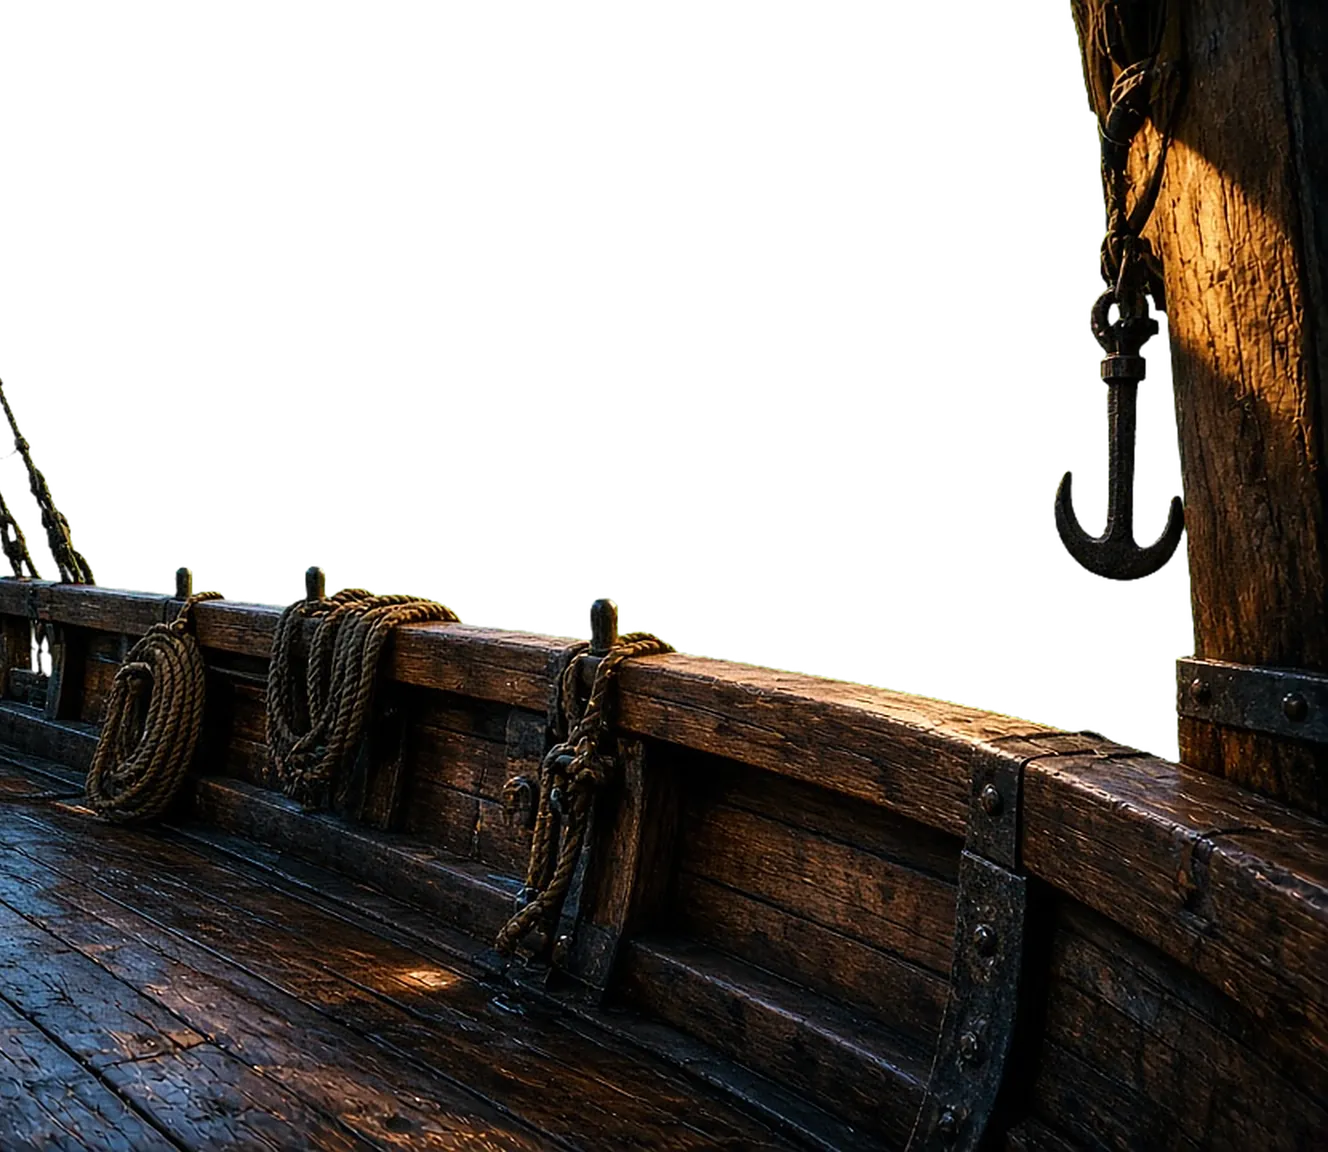
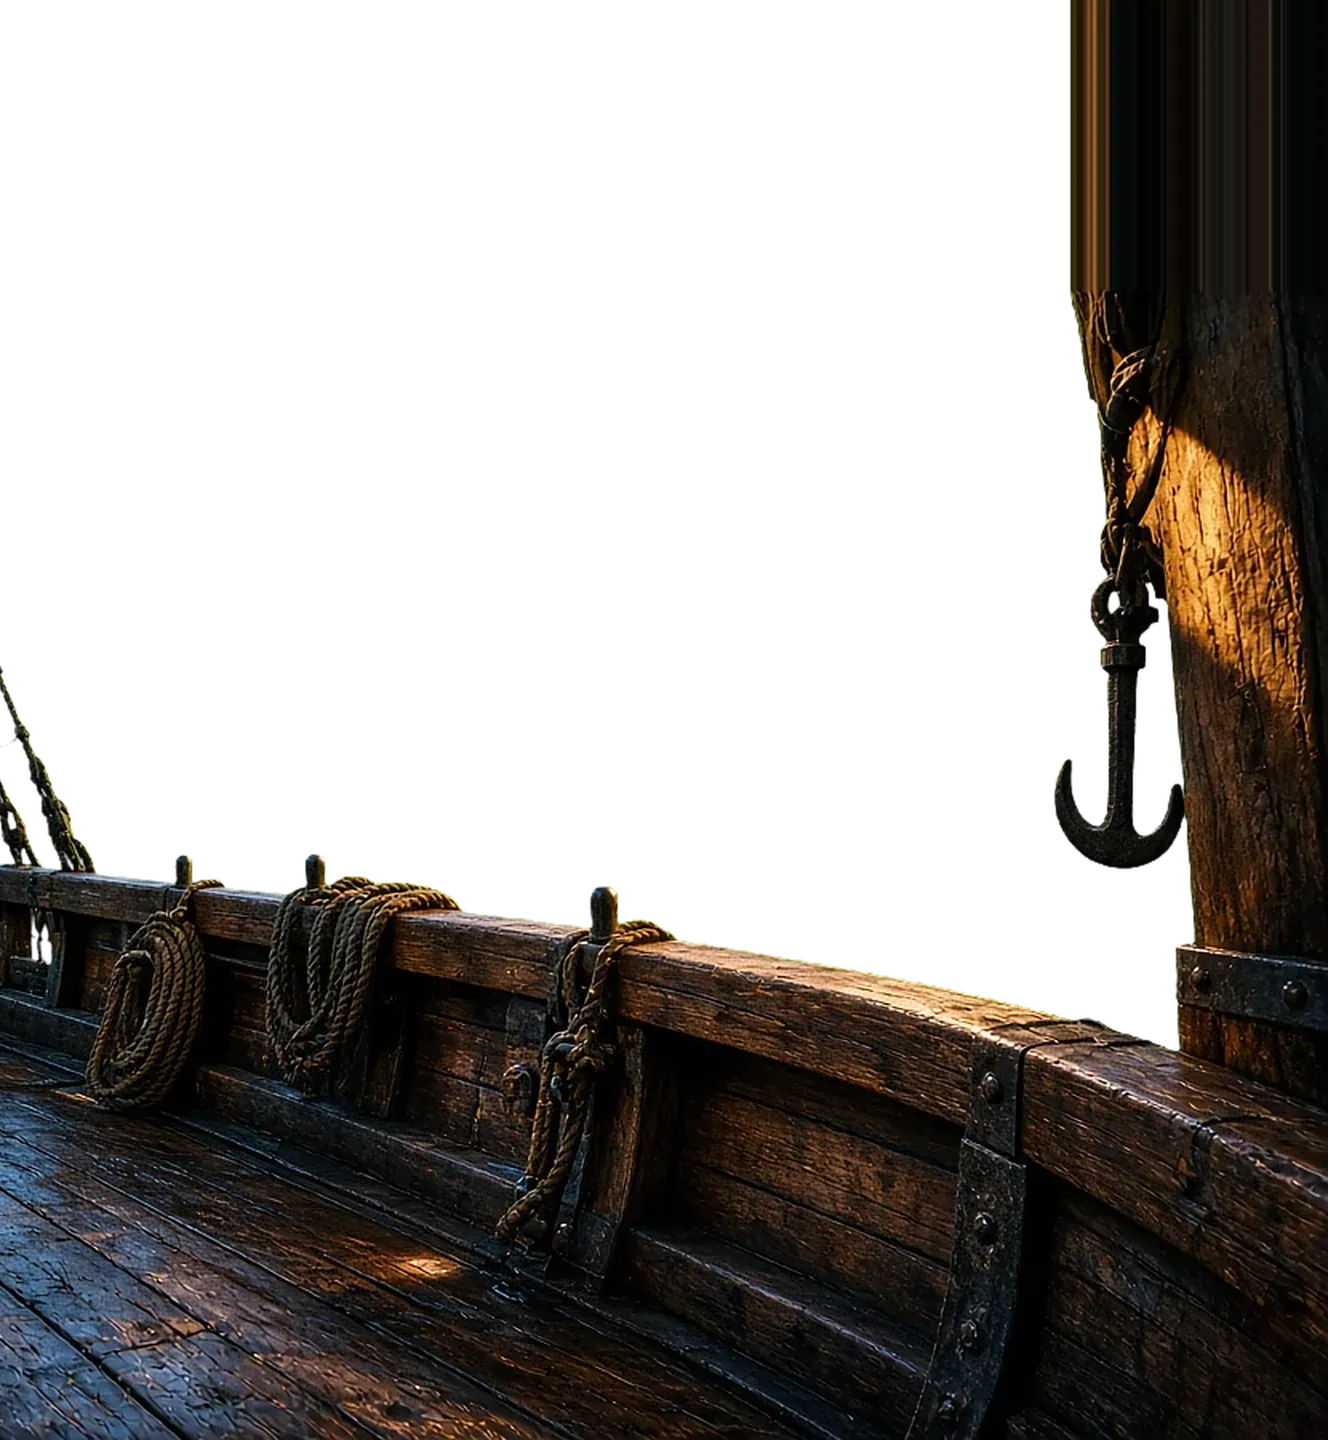
Extend deck masts upward; no top seam

diff --git a/assets/ship.js b/assets/ship.js
@@ -5,10 +5,10 @@ window.pfMotion=()=>on;document.documentElement.classList.toggle('calm',!on);
 const $=id=>document.getElementById(id),sc=document.querySelector('.scene'),top=$('scene-top'),ship=$('ship'),deck=$('deck'),lan=$('lantern'),fc=$('flame'),glow=$('lglow'),pool=$('lpool'),dawn=$('dawn'),cb=$('set-rock');
 const fx=fc.getContext('2d');
 cb.checked=on;cb.onchange=()=>{on=cb.checked;try{localStorage.setItem(K,on?'1':'0')}catch{};document.documentElement.classList.toggle('calm',!on);dispatchEvent(new Event('pfmotion'));on?loop():still()};
-const CFG={d:{src:'assets/sky/deck.webp',W:2560,H:1440,hx:.898,hy:.475,lh:.40,px:.80,py:.86,ax:.5,dy:.16},m:{src:'assets/sky/deck-m.webp',W:1328,H:1152,hx:.843,hy:.475,lh:.30,px:.72,py:.86,ax:.82,dy:.12}};
+const CFG={d:{src:'assets/sky/deck.webp',W:2560,H:1800,hx:.898,hy:.58,lh:.32,px:.80,py:.888,ax:.5,dy:.128},m:{src:'assets/sky/deck-m.webp',W:1328,H:1440,hx:.843,hy:.58,lh:.24,px:.72,py:.888,ax:.82,dy:.03,}};
 let c,iw,ih,lw,lhh,DPR=Math.min(devicePixelRatio||1,2);
 function fit(){const w=innerWidth,h=innerHeight;c=w<760?CFG.m:CFG.d;if(!deck.src.endsWith(c.src))deck.src=c.src;
-const s=Math.max(w/c.W,h/c.H)*1.04;iw=c.W*s;ih=c.H*s;const x=(w-iw)*c.ax,y=h-ih+ih*c.dy;
+const s=Math.max(w/c.W,h/(c.H*.8))*1.04;iw=c.W*s;ih=c.H*s;const x=(w-iw)*c.ax,y=h-ih+ih*c.dy;
 ship.style.width=iw+'px';ship.style.height=ih+'px';ship.style.left=x+'px';ship.style.top=y+'px';
 lhh=ih*c.lh;lw=lhh*427/1050;Object.assign(lan.style,{width:lw+'px',height:lhh+'px',left:(c.hx*iw-lw/2)+'px',top:(c.hy*ih)+'px'});
 fc.width=Math.round(lw*.5*DPR);fc.height=Math.round(lhh*.32*DPR);fc.style.width=lw*.5+'px';fc.style.height=lhh*.32+'px';
